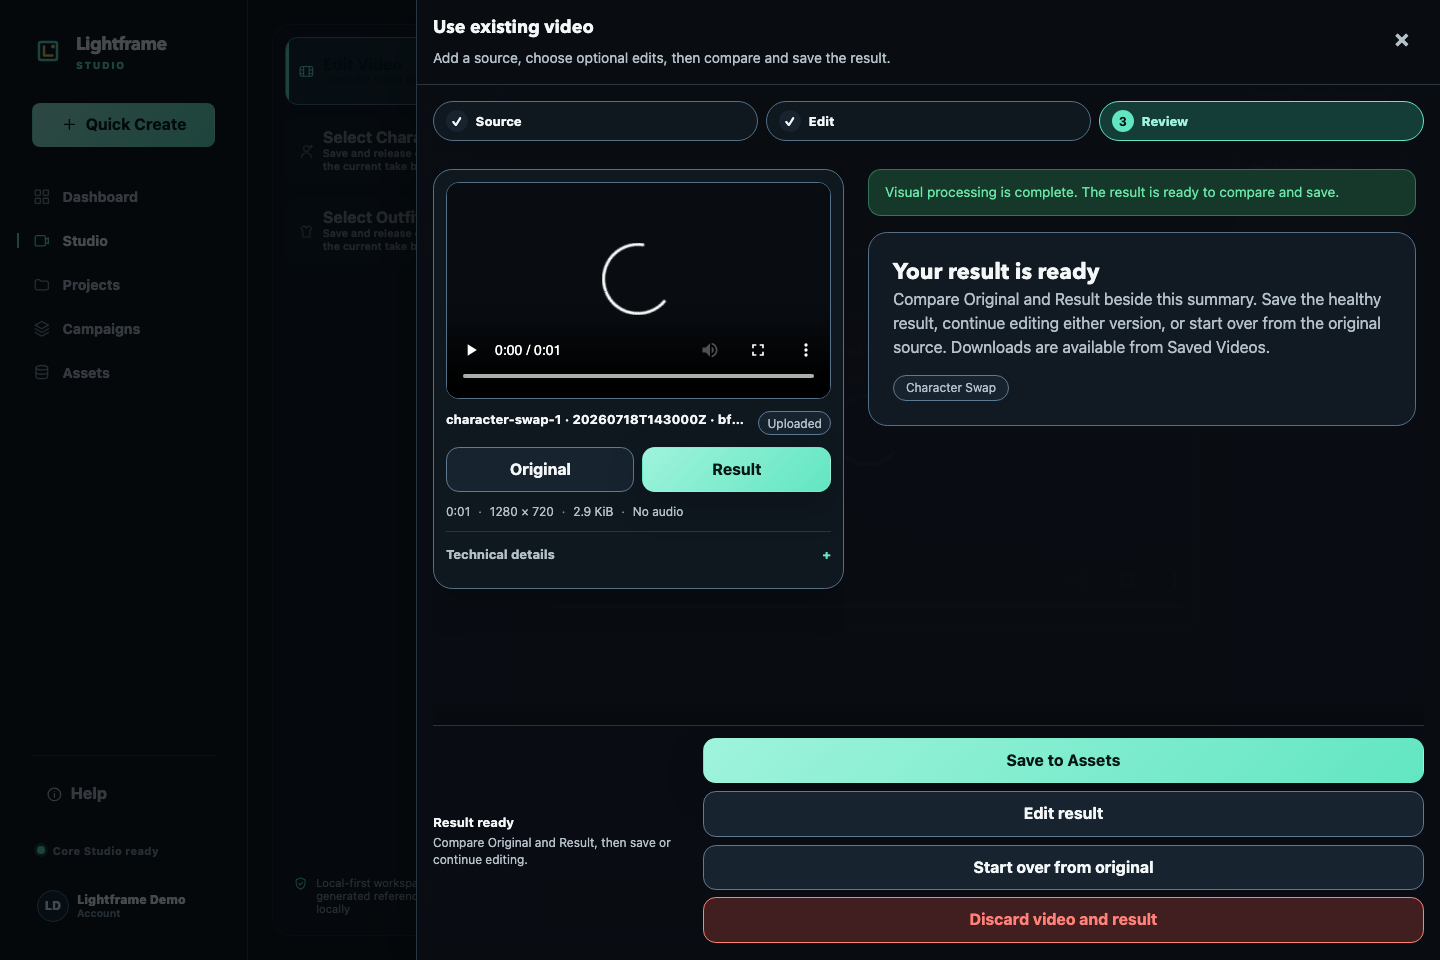
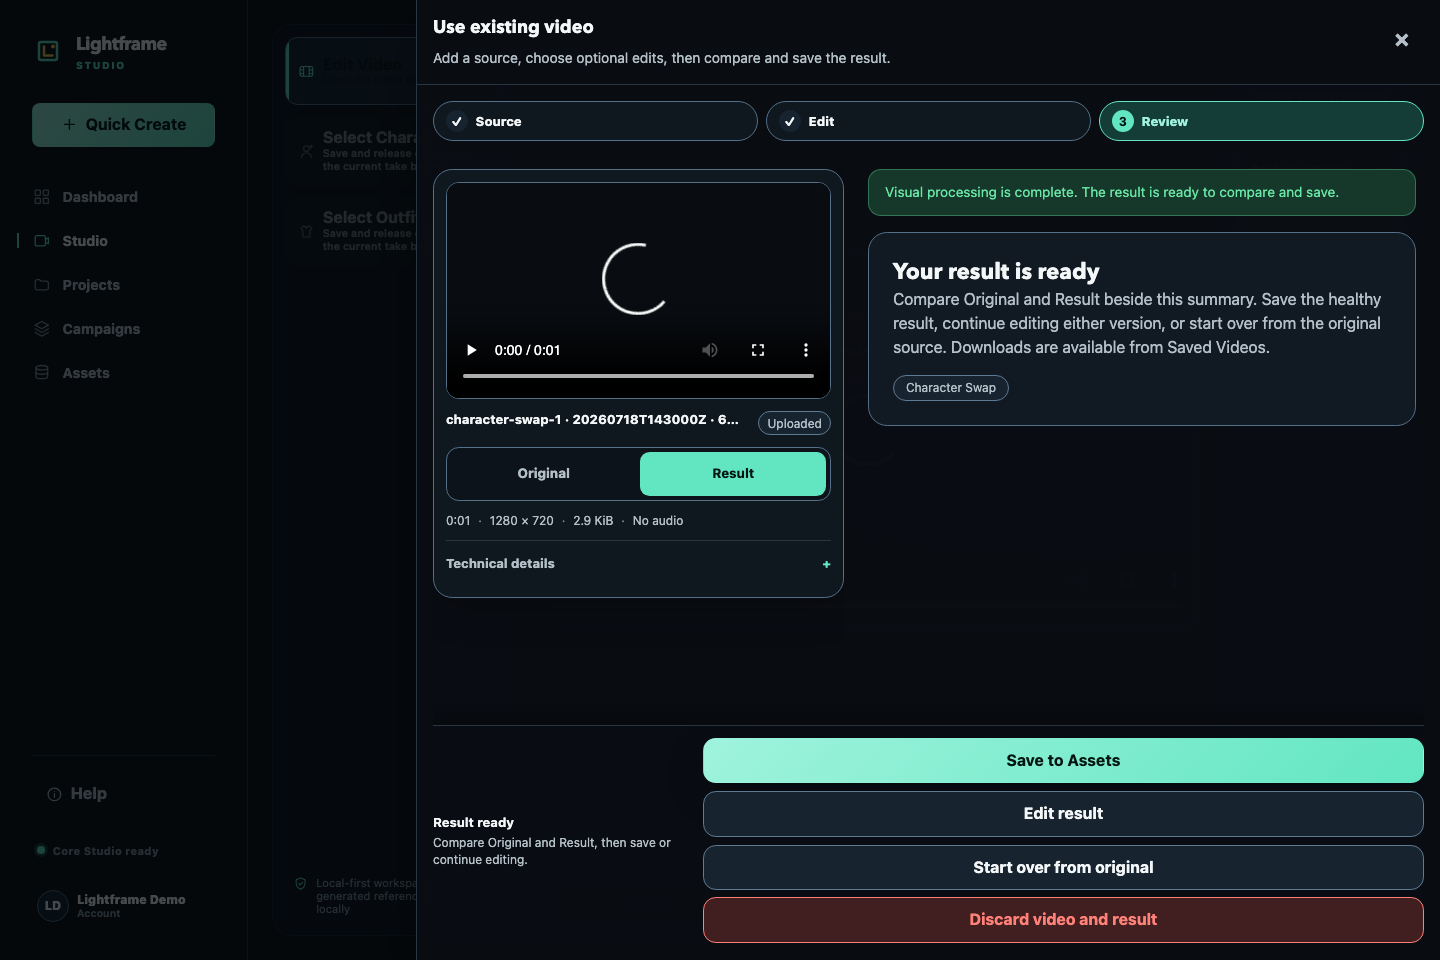
refactor(web): settle "choose one of N" on SegmentedControl
Item 23 of the UX plan. Inventory first: SegmentedControl already owned
export placement, the Voices tabs, outfit and thumbnail choosers and the
Dashboard recent filter; three surfaces still hand-rolled the same
interaction from `Button` plus `aria-pressed` — the Projects group filter,
the Project assets filter, and the upload flow's Original/Result switch.

All three now use the primitive, and their three style modules drop the
underline-tab and full-width-pair treatments they had each invented. The
Project workspace tablist and the upload step `<ol>` are untouched: they are
real tab panels and a wizard, which is what those roles are for.

The existing-video result baseline was stale — the old and new comparison
control differ by less than the suite's 0.5% tolerance — so it is re-captured
and reviewed here.

Changed region(s): [[0.3125, 0.4375, 0.5938, 0.5938]]

diff --git a/apps/web/src/features/projects/ProjectsListSurface.tsx b/apps/web/src/features/projects/ProjectsListSurface.tsx
@@ -10,6 +10,7 @@ import {
   EmptyStatePreview,
   ListSearchField,
   SearchEmptyState,
+  SegmentedControl,
   Skeleton,
   StatusNotice,
   useListSearch,
@@ -59,6 +60,13 @@ interface ProjectListSectionProps {
   ) => void;
   readonly onDelete: (project: ProjectContract, trigger: HTMLButtonElement | null) => void;
 }
+
+type ProjectGroup = 'all' | 'none';
+
+const PROJECT_GROUP_OPTIONS = [
+  { value: 'all', label: 'All Active' },
+  { value: 'none', label: 'No Campaign' },
+] as const satisfies readonly { value: ProjectGroup; label: string }[];
 
 const ProjectListSection = ({
   lifecycle,
@@ -258,7 +266,7 @@ export const ProjectsListSurface = () => {
   const [deleteProject, setDeleteProject] = useState<ProjectContract | null>(null);
   const [duplicateProject, setDuplicateProject] = useState<ProjectContract | null>(null);
   const [announcement, setAnnouncement] = useState<string | null>(null);
-  const [activeGroup, setActiveGroup] = useState<'all' | 'none'>('all');
+  const [activeGroup, setActiveGroup] = useState<ProjectGroup>('all');
   const [creating, setCreating] = useState(false);
   const search = useListSearch();
   const routeCreateRequested =
@@ -345,23 +353,14 @@ export const ProjectsListSurface = () => {
         />
       </div>
 
-      <div css={projectsGroupFilterStyles(theme)} aria-label="Project groups">
-        <Button
-          variant="quiet"
-          data-project-group="all"
-          aria-pressed={activeGroup === 'all'}
-          onClick={() => setActiveGroup('all')}
-        >
-          All Active
-        </Button>
-        <Button
-          variant="quiet"
-          data-project-group="none"
-          aria-pressed={activeGroup === 'none'}
-          onClick={() => setActiveGroup('none')}
-        >
-          No Campaign
-        </Button>
+      <div css={projectsGroupFilterStyles(theme)}>
+        <SegmentedControl
+          columns={PROJECT_GROUP_OPTIONS.length}
+          label="Project groups"
+          value={activeGroup}
+          options={PROJECT_GROUP_OPTIONS}
+          onChange={setActiveGroup}
+        />
       </div>
 
       <div css={projectsLedgerLayoutStyles(theme)}>

diff --git a/apps/web/src/features/existing-video/ExistingVideoSourceCard.tsx b/apps/web/src/features/existing-video/ExistingVideoSourceCard.tsx
@@ -1,6 +1,6 @@
 import { useTheme } from '@emotion/react';
 import type { RefObject } from 'react';
-import { Button } from '../../ui';
+import { Button, SegmentedControl } from '../../ui';
 import { formatBytes, formatDuration } from '../recording';
 import {
   comparisonStyles,
@@ -15,6 +15,11 @@ import {
 } from './ExistingVideoPanel.styles';
 import { ExistingVideoSourcePreview } from './ExistingVideoSourcePreview';
 import type { ExistingVideoWorkflow } from './useExistingVideoWorkflow';
+
+const COMPARISON_OPTIONS = [
+  { value: 'original', label: 'Original' },
+  { value: 'result', label: 'Result' },
+] as const;
 
 const orientation = (width: number, height: number): string => {
   if (width === height) return 'Square';
@@ -63,21 +68,16 @@ export const ExistingVideoSourceCard = ({
       </header>
 
       {workflow.result ? (
-        <div css={comparisonStyles(theme)} role="group" aria-label="Compare original and result">
-          <Button
-            variant={workflow.comparison === 'original' ? 'primary' : 'secondary'}
-            aria-pressed={workflow.comparison === 'original'}
-            onClick={workflow.showOriginal}
-          >
-            Original
-          </Button>
-          <Button
-            variant={workflow.comparison === 'result' ? 'primary' : 'secondary'}
-            aria-pressed={workflow.comparison === 'result'}
-            onClick={workflow.showResult}
-          >
-            Result
-          </Button>
+        <div css={comparisonStyles()}>
+          <SegmentedControl
+            columns={COMPARISON_OPTIONS.length}
+            label="Compare original and result"
+            value={workflow.comparison}
+            options={COMPARISON_OPTIONS}
+            onChange={(next) =>
+              next === 'original' ? workflow.showOriginal() : workflow.showResult()
+            }
+          />
         </div>
       ) : null}
 

diff --git a/apps/web/src/features/projects/ProjectsListSurface.styles.ts b/apps/web/src/features/projects/ProjectsListSurface.styles.ts
@@ -4,45 +4,13 @@ export const projectsSearchRowStyles = (theme: Theme): CSSObject => ({
   paddingBlockStart: theme.space.lg,
 });
 
+/** Layout only: the segments themselves are `SegmentedControl`'s, not this surface's. */
 export const projectsGroupFilterStyles = (theme: Theme): CSSObject => ({
-  display: 'flex',
-  flexWrap: 'wrap',
-  alignItems: 'end',
-  gap: theme.space.lg,
+  display: 'grid',
+  gridTemplateColumns: 'minmax(0, 24rem)',
   paddingBlock: theme.space.lg,
   borderBlockEnd: `1px solid ${theme.colors.divider}`,
-  '& > button': {
-    position: 'relative',
-    minWidth: 0,
-    minHeight: '2.75rem',
-    padding: `${theme.space.xs} 0`,
-    border: 0,
-    borderRadius: 0,
-    color: theme.colors.textMuted,
-    background: 'transparent',
-    boxShadow: 'none',
-    '&::after': {
-      position: 'absolute',
-      insetInline: 0,
-      insetBlockEnd: `calc(-1 * ${theme.space.lg} - 1px)`,
-      height: '2px',
-      background: 'transparent',
-      content: '""',
-    },
-    '&[aria-pressed="true"]': { color: theme.colors.text },
-    '&[aria-pressed="true"]::after': { background: theme.colors.accent },
-    '&:hover:not(:disabled):not([aria-disabled="true"])': {
-      color: theme.colors.text,
-      background: 'transparent',
-      transform: 'none',
-    },
-  },
-  '@container (max-width: 28rem)': {
-    display: 'grid',
-    gridTemplateColumns: 'repeat(2, minmax(0, 1fr))',
-    gap: theme.space.md,
-    '& > button': { width: '100%' },
-  },
+  '@container (max-width: 28rem)': { gridTemplateColumns: 'minmax(0, 1fr)' },
 });
 
 export const projectsLedgerLayoutStyles = (theme: Theme): CSSObject => ({

diff --git a/apps/web/src/features/projects/ProjectAssetsSection.tsx b/apps/web/src/features/projects/ProjectAssetsSection.tsx
@@ -16,7 +16,14 @@ import {
   savedVideoThumbnailUrl,
 } from '../../adapters/api-client/savedVideosApi';
 import { studioCreatePath } from '../../app/paths';
-import { AppIcon, Button, ConfirmationDialog, OverlayPanel, StatusNotice } from '../../ui';
+import {
+  AppIcon,
+  Button,
+  ConfirmationDialog,
+  OverlayPanel,
+  SegmentedControl,
+  StatusNotice,
+} from '../../ui';
 import { kindLabel, ProjectAssetThumbnail } from './ProjectAssetThumbnail';
 import { ProjectSavedVideoPicker } from './ProjectSavedVideoPicker';
 import { safeProjectError } from './ProjectDialogs';
@@ -347,22 +354,14 @@ export const ProjectAssetsSection = ({
         Saved items you use in this Project. None of them is its original video.
       </p>
 
-      <div
-        role="group"
-        aria-label="Filter items used in this Project"
-        css={projectAssetFiltersStyles(theme)}
-      >
-        {FILTERS.map(({ value, label }) => (
-          <Button
-            key={value}
-            size="small"
-            variant="quiet"
-            aria-pressed={filter === value}
-            onClick={() => setFilter(value)}
-          >
-            {label}
-          </Button>
-        ))}
+      <div css={projectAssetFiltersStyles(theme)}>
+        <SegmentedControl
+          columns={FILTERS.length}
+          label="Filter items used in this Project"
+          value={filter}
+          options={FILTERS}
+          onChange={setFilter}
+        />
       </div>
 
       {notice ? (

diff --git a/apps/web/src/features/projects/ProjectAssetsSection.styles.ts b/apps/web/src/features/projects/ProjectAssetsSection.styles.ts
@@ -65,44 +65,10 @@ export const addAssetActionStyles = (theme: Theme): CSSObject => ({
   },
 });
 
+/** Layout only: the segments themselves are `SegmentedControl`'s, not this section's. */
 export const projectAssetFiltersStyles = (theme: Theme): CSSObject => ({
   minWidth: 0,
-  display: 'flex',
-  alignItems: 'end',
-  gap: theme.space.xl,
   marginBlockEnd: `clamp(${theme.space.xl}, 4cqi, 2.5rem)`,
-  overflowX: 'auto',
-  overscrollBehaviorInline: 'contain',
-  borderBlockEnd: `1px solid ${theme.colors.divider}`,
-  scrollbarWidth: 'thin',
-  '& > button': {
-    position: 'relative',
-    minWidth: 'max-content',
-    minHeight: '2.75rem',
-    padding: `0 0 ${theme.space.md}`,
-    border: 0,
-    borderRadius: 0,
-    color: theme.colors.textMuted,
-    background: 'transparent',
-    boxShadow: 'none',
-    fontSize: theme.fontSizes.body,
-    fontWeight: 600,
-    '&::after': {
-      position: 'absolute',
-      insetInline: 0,
-      insetBlockEnd: '-1px',
-      height: '2px',
-      background: 'transparent',
-      content: '""',
-    },
-    '&[aria-pressed="true"]': { color: theme.colors.text },
-    '&[aria-pressed="true"]::after': { background: theme.colors.accent },
-    '&:hover:not(:disabled):not([aria-disabled="true"])': {
-      color: theme.colors.text,
-      background: 'transparent',
-      transform: 'none',
-    },
-  },
 });
 
 export const projectAssetGridStyles = (theme: Theme): CSSObject => ({

diff --git a/apps/web/src/features/projects/ProjectAssetsSection.styles.test.ts b/apps/web/src/features/projects/ProjectAssetsSection.styles.test.ts
@@ -30,15 +30,11 @@ describe('Project Assets Single Flow styles', () => {
   });
 
   it('uses the approved underline filters without rounded button boxes', () => {
+    // The filter row owns spacing only; `SegmentedControl` owns how a chosen filter looks.
     expect(projectAssetFiltersStyles(studioTheme)).toMatchObject({
-      overflowX: 'auto',
-      borderBlockEnd: `1px solid ${studioTheme.colors.divider}`,
-      '& > button': {
-        border: 0,
-        borderRadius: 0,
-        background: 'transparent',
-        '&[aria-pressed="true"]::after': { background: studioTheme.colors.accent },
-      },
+      minWidth: 0,
+      marginBlockEnd: `clamp(${studioTheme.space.xl}, 4cqi, 2.5rem)`,
     });
+    expect(projectAssetFiltersStyles(studioTheme)).not.toHaveProperty('& > button');
   });
 });

diff --git a/apps/web/src/features/existing-video/ExistingVideoPanel.styles.ts b/apps/web/src/features/existing-video/ExistingVideoPanel.styles.ts
@@ -318,11 +318,10 @@ export const metadataStyles = (theme: Theme): CSSObject => ({
   '@media (max-width: 22rem)': { gridTemplateColumns: 'minmax(0, 1fr)' },
 });
 
-export const comparisonStyles = (theme: Theme): CSSObject => ({
+/** Layout only: the two segments are `SegmentedControl`'s, not this panel's. */
+export const comparisonStyles = (): CSSObject => ({
   display: 'grid',
-  gridTemplateColumns: 'repeat(2, minmax(0, 1fr))',
-  gap: theme.space.xs,
-  '& > *': { width: '100%' },
+  gridTemplateColumns: 'minmax(0, 1fr)',
 });
 
 export const editorColumnStyles = (theme: Theme): CSSObject => ({
